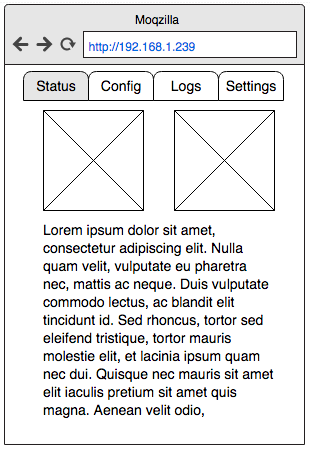
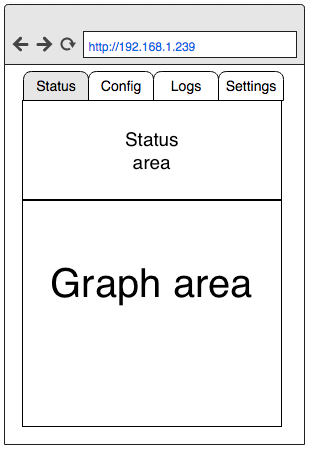
removed moqzilla from mockups

diff --git a/chapter03.tex b/chapter03.tex
@@ -104,7 +104,7 @@
 
 \subsection{Высокоуровневая работа с RTKLIB. Класс RTKLIB} \label{subsect3_1_4}
 
-Класс RTKLIB берет на себя почти все функции, связанные с управлением RTKLIB. Через методы и свойства этого класса сервер
+Класс RTKLIB берет на себя почти все функции, связанные с управлением программами пакета RTKLIB. Через методы и свойства этого класса сервер работает с программами, логами и конфигурационными файлами.
 
 Рассмотрим основные функции класса RTKLIB:
 
@@ -117,7 +117,7 @@
   \item Трансляция координат и уровней спутников на front-end.
 \end{itemize}
 
-Основной задачей этого класса является объединение множества разрозненной функциональности в одно место, а также инкапсуляция всех нюансов работы с отдельными частями RTKLIB. Например этот класс берет на себя обработку ошибок в работе классов более низкого уровня.
+Основной задачей этого класса является инкапсуляция всех нюансов работы с отдельными частями RTKLIB. Например этот класс берет на себя обработку ошибок в работе классов более низкого уровня.
 
 Одни из самых главных понятий, определенных в классе RTKLIB - состояния ровера и базы. Дело в том, что RTKLIB сам по себе не предполагает таких ролей. Есть RTKRCV, занимающийся расчетом координат с помощью совмещения показаний двух приемников. Также есть STR2STR, который позволяет перенаправлять потоки данных ГНСС приемников. Однако, STR2STR - единственная программа пакета, которая способна выдавать данные в легковесном формате RTCM3. Поэтому в классе RTKLIB запуск режима ровера равносилен запуску RTKRCV с помощью класса RtkController, а запуск режима базы - запуску STR2STR с помощью Str2StrController.
 
@@ -187,7 +187,7 @@
 
 Следует обратить внимание на особенность синтаксиса в этих примерах. Декораторы используются для привязки нижеописанных функций к событиям, переданным в качестве параметров декоратору.
 
-Главный цикл состоит из одного действия. В нем запускается сервер и обрабатывается исключение KeyboardInterrupt(нажатие CTRL+C), корректно завершая все потоки. Это полезное дополнение при разработке.
+Главный цикл состоит из одного действия. В нем запускается сервер и обрабатывается исключение KeyboardInterrupt(нажатие CTRL+C), корректно завершая все потоки.
 
 \lstinputlisting[
   label={listings:main_loop},
